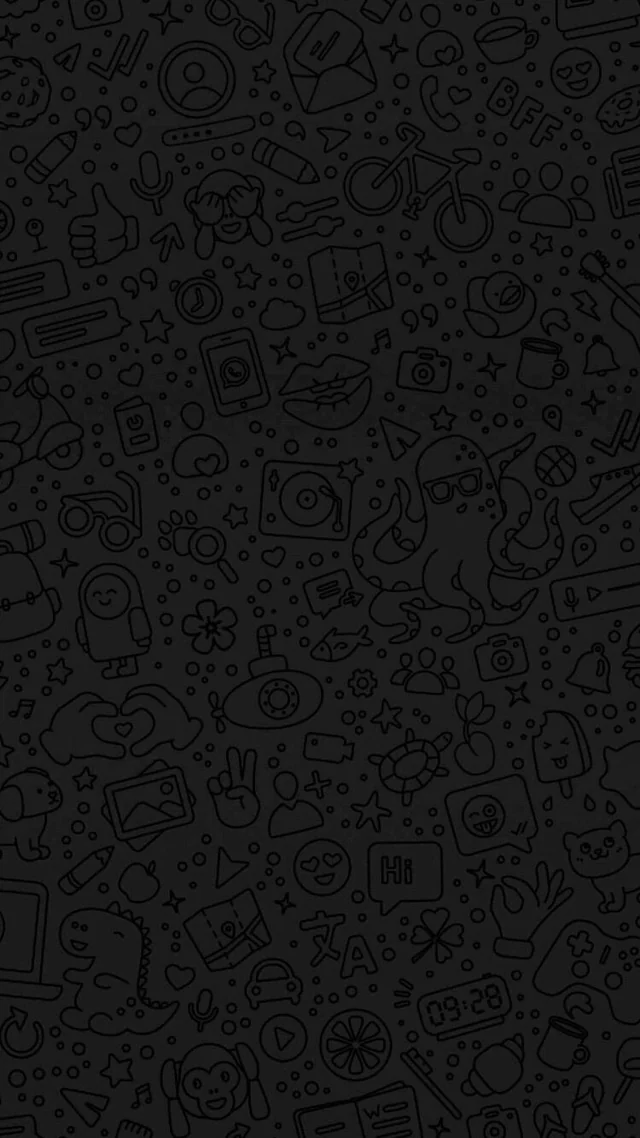
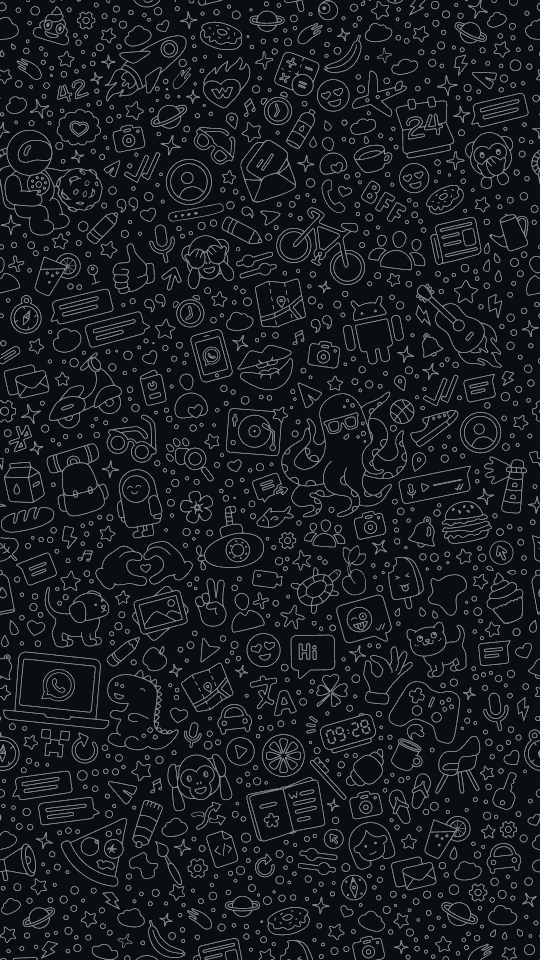
style: actualización visual de la aplicación y agregado de checks de mensajes

Changed region(s): [[0.0, 0.0, 1.0, 1.0]]

diff --git a/index.html b/index.html
@@ -53,44 +53,63 @@
       <section class="chats">
         <ul>
           <li class="user-chat">
-            <img src="./assets/mama.jpg" alt="foto de perfil de maría lópez">
-            <div>
-              <h3>Mamá</h3>
-              <p>¿Nos vemos a las 18?</p>
+            <img src="./assets/mama.jpg" alt="foto de perfil de mamá">
+            <div class="mensaje-chat">
+              <h4>Mamá</h4>
+              <div class="mensaje-footer">
+                <img id="check" src="./assets/no-check.svg" alt="">
+                <p>Sticker</p>
+              </div>
             </div>
           </li>
           <li class="user-chat">
-            <img src="./assets/trabajo.jpg" alt="foto de perfil de maría lópez">
-            <div>
-              <h3>Grupo: Proyecto</h3>
-              <p>Push a main — revisión</p>
+            <img src="./assets/trabajo.jpg" alt="foto de perfil del grupo proyecto">
+            <div class="mensaje-chat">
+              <h4>Grupo: Proyecto</h4>
+              <div class="mensaje-footer">
+                <p>Push a main — revisión</p>
+              </div>
             </div>
           </li>
           <li class="user-chat">
-            <img src="./assets/soporte.jpg" alt="foto de perfil de maría lópez">
-            <div>
-              <h3>Soporte</h3>
-              <p>Tu factura está lista</p>
+            <img src="./assets/soporte.jpg" alt="foto de perfil de soporte">
+            <div class="mensaje-chat">
+              <h4>Soporte</h4>
+              <div class="mensaje-footer">
+                <img id="check" src="./assets/no-check.svg" alt="">
+                <p>Equipo no enciende</p>
+              </div>
             </div>
           </li>
           <li class="user-chat">
-            <img src="./assets/bauty.jpg" alt="foto de perfil de maría lópez">
-            <div>
-              <h3>Bauty</h3>
-              <p>Que onda San?</p>
+            <img src="./assets/bauty.jpg" alt="foto de perfil de Bauty">
+            <div class="mensaje-chat">
+              <h4>Bauty</h4>
+              <div class="mensaje-footer">
+                <img id="check" src="./assets/check.svg" alt="">
+                <p>Llegaste bien a futbol?</p>
+              </div>
             </div>
-            <li class="user-chat">
-            <img src="./assets/juana.jpg" alt="foto de perfil de maría lópez">
-            <div>
-              <h3>Juana</h3>
-              <p>Vas a salir con Mamá?</p>
+          </li>
+          <li class="user-chat">
+            <img src="./assets/juana.jpg" alt="foto de perfil de Juana">
+            <div class="mensaje-chat">
+              <h4>Juana</h4>
+              <div class="mensaje-footer">
+                <img id="check" src="./assets/check.svg" alt="">
+                <p>Ayuda a Martina con su tarea</p>
+              </div>
             </div>
-            <li class="user-chat">
-            <img src="./assets/martu.jpg" alt="foto de perfil de maría lópez">
-            <div>
-              <h3>Martina</h3>
-              <p>Puedo usar la Pc?</p>
+          </li>
+          <li class="user-chat">
+            <img src="./assets/martu.jpg" alt="foto de perfil de Martina">
+            <div class="mensaje-chat">
+              <h4>Martina</h4>
+              <div class="mensaje-footer">
+                <p>¿Puedo jugar con la PC?</p>
+              </div>
             </div>
+          </li>
         </ul>
       </section>
     </aside>
@@ -109,7 +128,10 @@
         </div>
         <div class="message me">
           <p class="content">Sí, perfecto 😊 ¿A las 18 te viene bien? </p>
-          <p class="time">14:13 p.m.</p>
+          <div class="time">
+            <p>14:13 p.m.</p>
+            <img id="check" src="./assets/check.svg" alt="#">
+          </div>
         </div>
         <div class="message">
           <p class="content">Mmm, a las 18 no puedo porque después llego tarde a ir al trabajo 😕</p>
@@ -117,7 +139,10 @@
         </div>
         <div class="message me">
           <p class="content">Bueno, ¿te parece a las 17 entonces?</p>
-          <p class="time">14:15 p.m.</p>
+          <div class="time">
+            <p>14:15 p.m.</p>
+            <img id="check" src="./assets/check.svg" alt="#">
+          </div>
         </div>
         <div class="message">
           <p class="content">¡Dale! A las 5 está perfecto ☕😊</p>
@@ -129,8 +154,10 @@
         </div>
         <div class="message-stikers-me">
           <img class="stikers" src="./assets/hamsters.jpg" alt="">
-          <p class="time">14:18 p.m.</p>
-        </div>
+          <div class="time">
+            <p>14:18 p.m.</p>
+            <img id="check" src="./assets/no-check.svg" alt="#">
+          </div>
       </section>
       <footer>
         <button id="btn-attach" class="attach">

diff --git a/styles/main.css b/styles/main.css
@@ -34,9 +34,7 @@ body {
   grid-template-columns: 320px 1fr;
   height: 90vh;
   overflow: hidden;
-  outline: 3px solid black;
-  border-radius: 30px;
-  box-shadow: 0 12px 40px rgba(0, 0, 0, 0.25);
+  border: 2px solid #2a2a2a; 
 }
 
 /* aside styles */
@@ -44,7 +42,10 @@ body {
 aside {
   background-color: var(--grey-800);
   color: white;
+  border-right: 2px solid #2a2a2a; 
 }
+
+
 
 aside header {
   background-color: var(--grey-800);
@@ -69,6 +70,10 @@ aside header {
 
 .profile h2 {
   font-size: 22px;
+}
+
+.user-chat h4 {
+  font-weight: 400;
 }
 
 .actions {
@@ -129,10 +134,10 @@ aside header {
   display: flex;
   padding: 10px;
   align-items: center;
-  gap: 10px;
+  gap: 12px;
   margin-left: 10px;
   margin-right: 10px;
-  transition: all 0.3s;
+  
 }
 
 .user-chat p{
@@ -144,22 +149,38 @@ aside header {
 .user-chat:hover {
   background-color: #dfdfe138;
   cursor: pointer;
-  border-radius: 70px;
+  border-radius: 8px;
+  
 }
 
 .user-chat:active {
-  outline: 1px solid var(--grey-200);
+  border-radius: 8px;
+  background-color: #dfdfe138;
 }
 
-.user-chat img {
+.user-chat > img {
   border-radius: 50%;
   width: 50px;
+}
+
+#check  {
+  max-width: 20px;
+}
+
+.mensaje-chat {
+  display: flex;
+  flex-direction: column;
+}
+
+.mensaje-footer {
+  display: flex;
+  gap: 1px;
 }
 
 /* messages panel */
 
 .chat-header {
-  background-color: var(--grey-900);
+  background-color: var(--grey-800);
   display: flex;
   padding: 10px;
   align-items: center;
@@ -194,14 +215,20 @@ aside header {
   flex-direction: column;
   gap: 20px;
   overflow-y: auto;
-  background-image: url("https://i.redd.it/avcsz3r8sty51.png");
+  background-image: url(/assets/fondo-chat.webp);
+  border-top: 2px solid #2a2a2a;
+  border-bottom: 2px solid #2a2a2a;
 }
 
+.me .time{
+  display: flex;
+  justify-content: flex-end;
+  align-items: center;
+} 
 
 .message {
   background-color: var(--grey-800);
   border-radius: 10px;
-  box-shadow: 0 2px 6px rgba(0, 0, 0, 0.238);
   padding: 10px;
   width: 60%;
 }
@@ -223,28 +250,30 @@ aside header {
 }
 
 .message-stikers {
-  background-color: var(--grey-800);
   border-radius: 10px;
-  box-shadow: 0 2px 6px rgba(0, 0, 0, 0.238);
   padding: 10px;
-  width: 30%;
+  max-width: 220px;
 }
 
+
 .message-stikers-me {
-  background-color: var(--grey-800);
   border-radius: 10px;
-  box-shadow: 0 2px 6px rgba(0, 0, 0, 0.238);
   padding: 10px;
-  width: 30%;
   align-self: end;
-  background-color: #0a5c33;
 }
 
 .message-stikers-me .time  {
+  display: flex;
+  justify-content: flex-end;
+  align-items: center;
+  padding: 3px;
+  border-radius: 5px;
+  margin-left: 105px;
   color: white;
   font-size: 14px;
-  text-align: end;
   margin-top: 2px;
+  background-color: #0a5c33;
+
 }
 
 .message-stikers .time  {
@@ -252,11 +281,17 @@ aside header {
   font-size: 14px;
   text-align: end;
   margin-top: 2px;
+  background-color: var(--grey-800);
+  padding: 6px;
+  border-radius: 5px;
+  margin-left: 120px;
 }
 .stikers {
-  width: 200px;
+  max-width: 200px;
   height: 200px;
+  
 }
+
 .messages::-webkit-scrollbar {
   width: 6px;
 }
@@ -278,7 +313,7 @@ aside header {
 
 footer {
   display: flex;
-  background-color: var(--grey-900);
+  background-color: var(--grey-800);
   align-items: center;
   justify-content: space-between;
   align-items: center;
